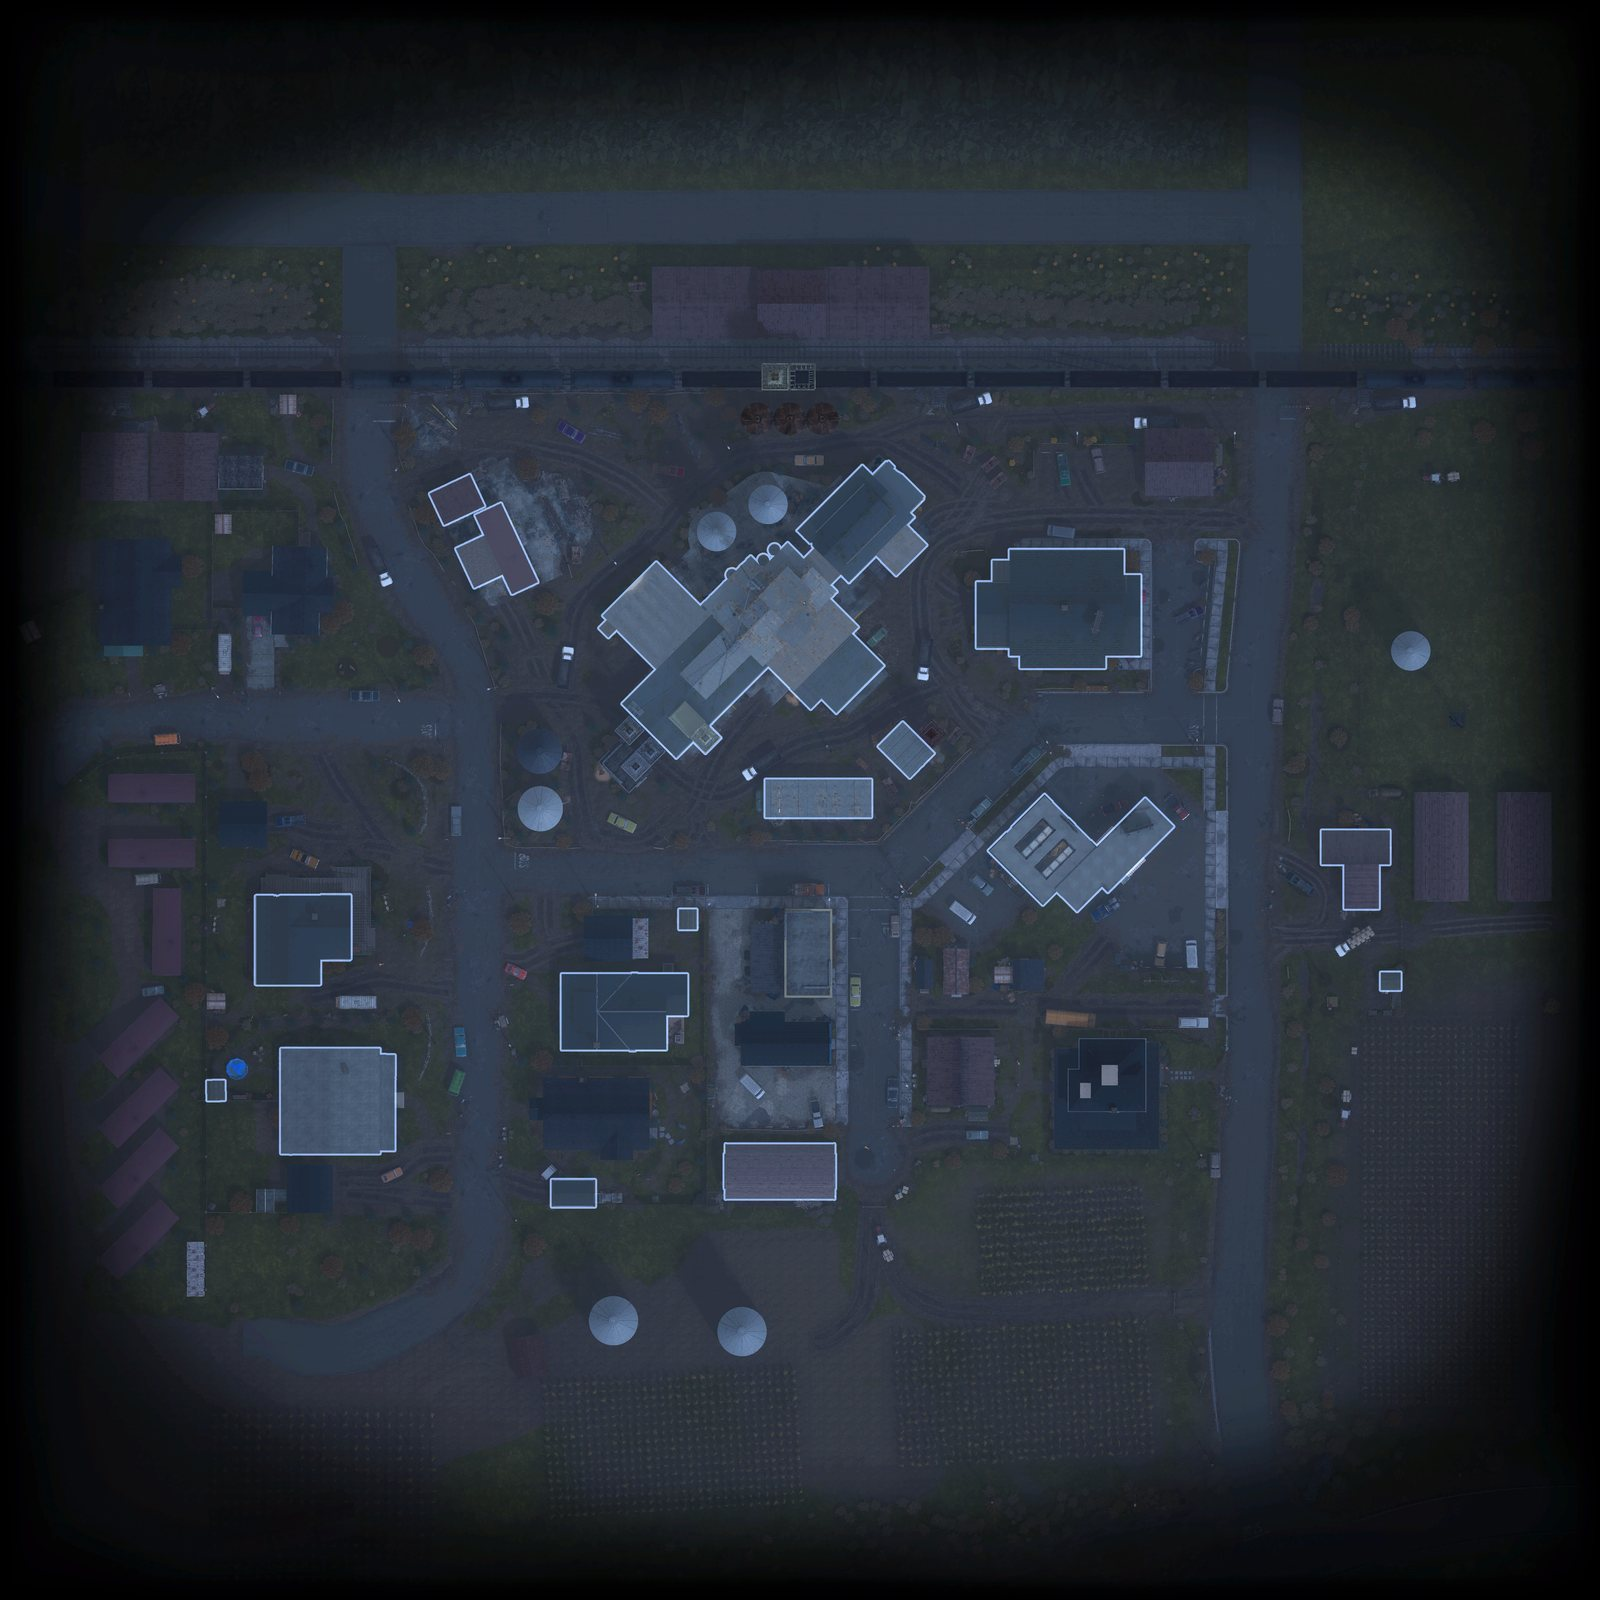
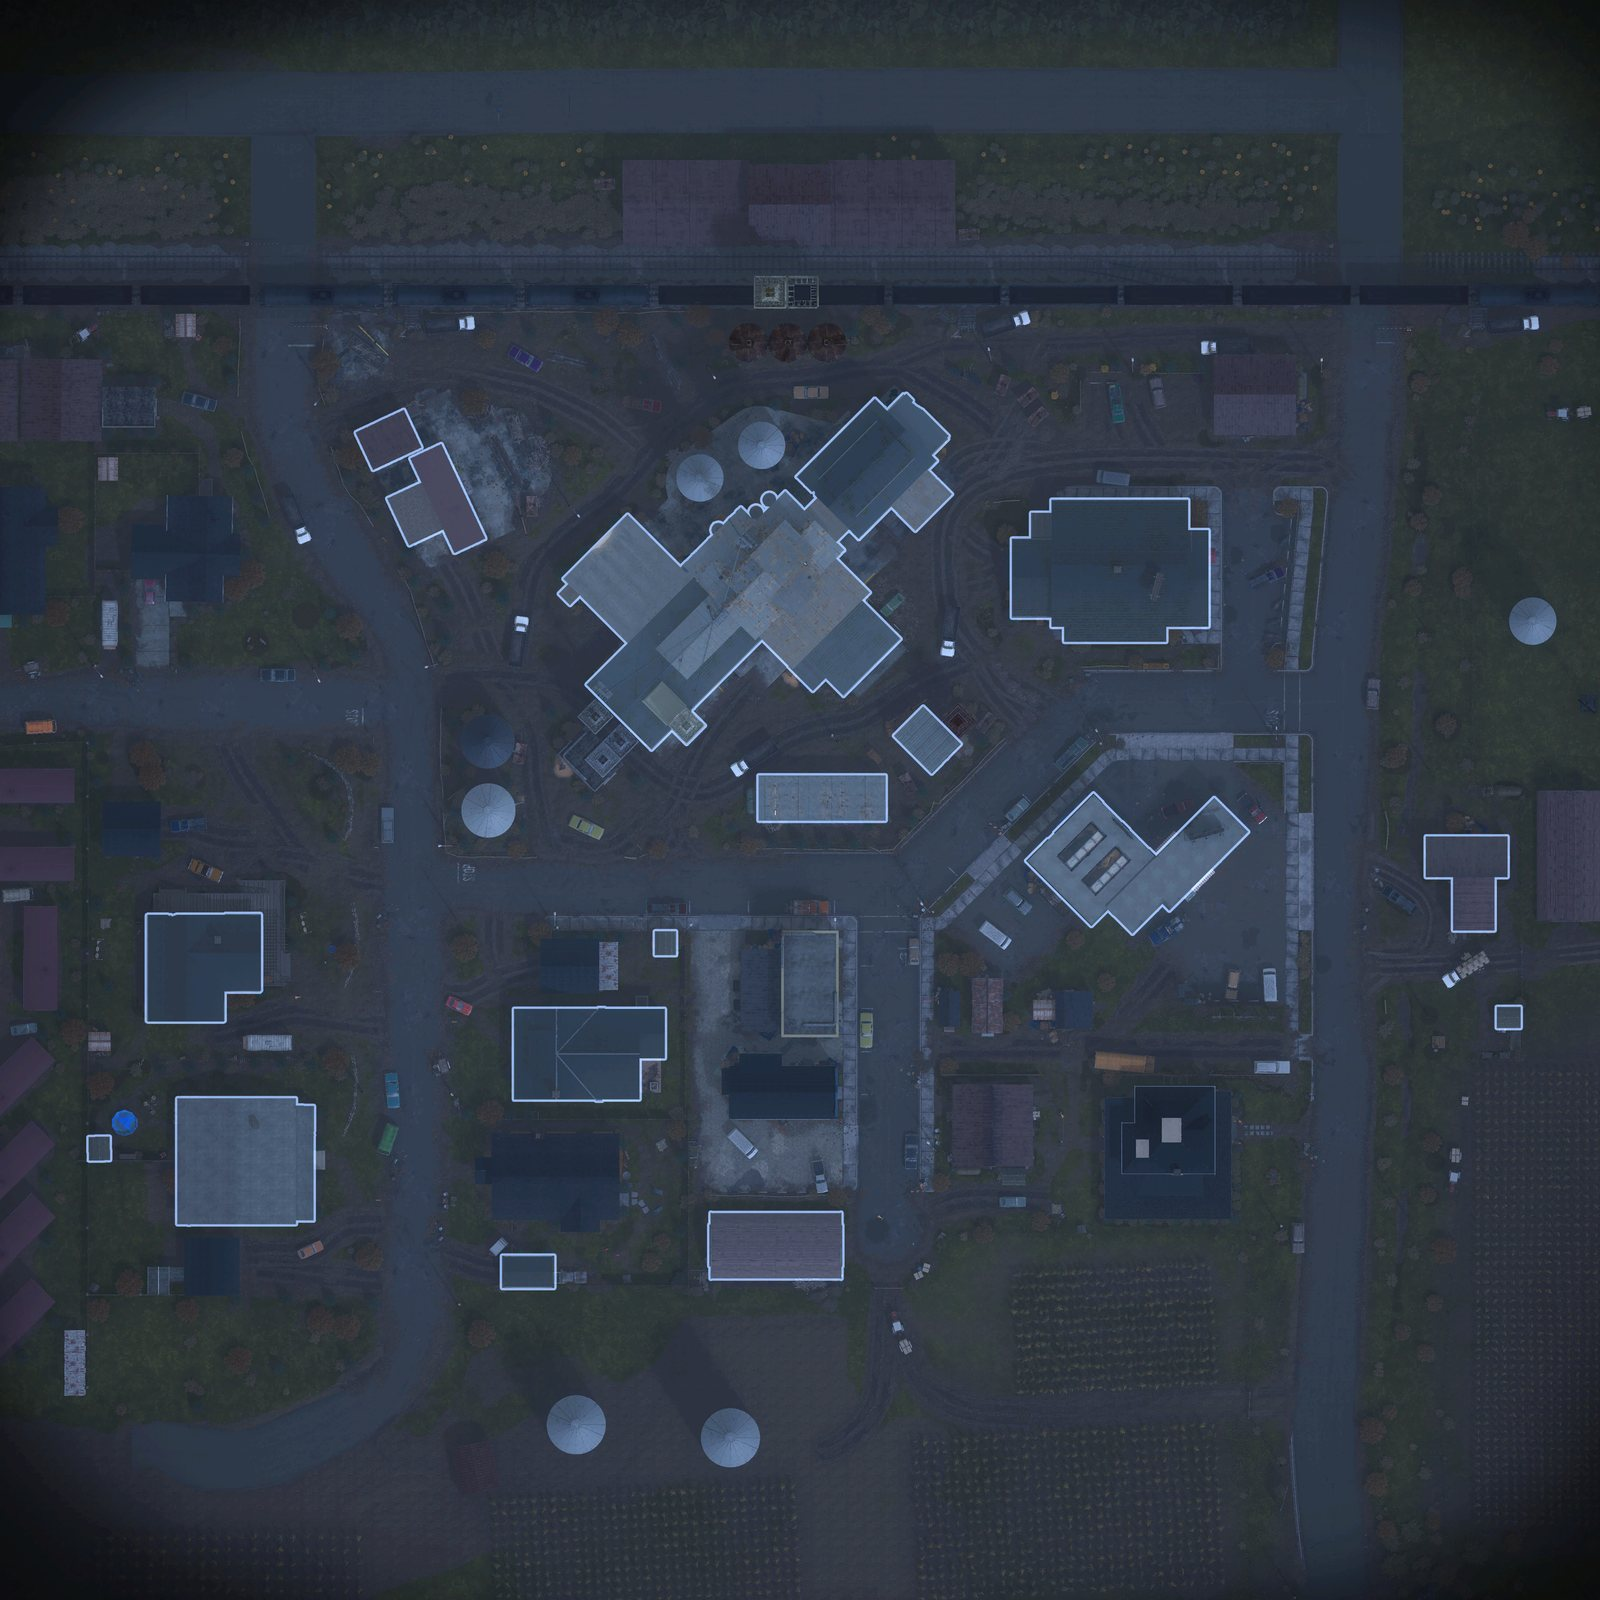
minor tweaks

diff --git a/maps.html b/maps.html
@@ -58,13 +58,24 @@ footer span:last-child{margin-left:auto}
 .bar button .li{width:20px;height:20px;opacity:.4}
 .bar button.on .li{opacity:1}
 .bar button .n{font-weight:400;color:var(--mute);letter-spacing:0}
-.mapwrap{width:942px;max-width:100%;border:1px solid var(--line);border-radius:12px;overflow:hidden;position:relative;background:#050506;line-height:0}
+.maprow{display:flex;gap:10px;align-items:flex-start;width:942px;max-width:100%}
+.side{flex:none;width:186px;display:flex;flex-direction:column;gap:6px;padding:10px;border:1px solid var(--line);border-radius:12px;background:var(--bg)}
+.side .lbl{font-stretch:condensed;font-size:11px;letter-spacing:.24em;text-transform:uppercase;color:var(--mute);padding:2px 4px 4px}
+.side button{font:inherit;font-stretch:condensed;font-weight:700;font-size:14px;letter-spacing:.1em;text-transform:uppercase;cursor:pointer;text-align:left;
+ color:var(--mute);background:var(--panel);border:1px solid var(--line);border-radius:8px;padding:8px 10px;display:flex;align-items:center;gap:8px;width:100%}
+.side button:hover{color:var(--bone)}
+.side button.on{color:var(--bone);border-color:var(--bone);background:#22222a}
+.side button .li{width:20px;height:20px;opacity:.4}.side button.on .li{opacity:1}
+.side button .sw{width:11px;height:11px;border-radius:50%;background:var(--c);opacity:.35}.side button.on .sw{opacity:1}
+.side button .n{font-weight:400;color:var(--mute);letter-spacing:0;margin-left:auto}
+@media(max-width:700px){.maprow{flex-direction:column}.side{width:auto;flex-direction:row;flex-wrap:wrap;align-self:stretch}.side button{width:auto}.side .lbl{width:100%}}
+.mapwrap{flex:1;min-width:0;border:1px solid var(--line);border-radius:12px;overflow:hidden;position:relative;background:#050506;line-height:0}
 .mapwrap img{width:100%;height:auto;display:block}
 .mapwrap svg{position:absolute;inset:0;width:100%;height:100%}
 .mk text{font:700 15px Bahnschrift,'Segoe UI',Arial,sans-serif;fill:#0b0b0d;text-anchor:middle;dominant-baseline:central}
 .empty-note{font-size:13px;color:var(--mute);padding:0 6px}
-</style></head><body><div class="stack"><nav><a href="executions.html">Execution Times</a><a href="match_points.html">Match Points</a><a href="maps.html" class="on">Maps</a></nav><div class="bar"><span class="lbl">Map</span><span id="maps" style="display:contents"></span></div><div class="bar"><span class="lbl">Layers</span><span id="layers" style="display:contents"></span></div><div class="mapwrap"><img id="mapimg" alt=""><svg id="overlay" viewBox="0 0 1000 1000" preserveAspectRatio="none"></svg></div></div><script>
-const DATA = {"maps":[{"id":"orange-grove-estates","name":"Orange Grove Estates","img":"img/map-orange-grove-estates.jpg","layers":{"car":[{"x":0.2484,"y":0.5996,"a":270},{"x":0.6429,"y":0.2378,"a":90},{"x":0.6914,"y":0.7466,"a":180}],"cellar":[{"x":0.6019,"y":0.174},{"x":0.3522,"y":0.8515},{"x":0.6531,"y":0.8181},{"x":0.8702,"y":0.5914}],"gate":[{"x":0.3716,"y":0.8987},{"x":0.8219,"y":0.1366},{"x":0.5213,"y":0.1105}]}},{"id":"haddonfield-town-center","name":"Haddonfield Town Center","img":"img/map-haddonfield-town-center.jpg","layers":{"car":[{"x":0.167,"y":0.4242,"a":90},{"x":0.3545,"y":0.6359,"a":90},{"x":0.7517,"y":0.5573,"a":180},{"x":0.6206,"y":0.5283,"a":180},{"x":0.3537,"y":0.2882,"a":90}],"cellar":[{"x":0.2295,"y":0.43},{"x":0.5499,"y":0.4702},{"x":0.6025,"y":0.7293}],"gate":[{"x":0.8352,"y":0.8696}]}},{"id":"east-haddonfield","name":"East Haddonfield","img":"img/map-east-haddonfield.jpg","layers":{"car":[{"x":0.7763,"y":0.3027,"a":90},{"x":0.2565,"y":0.3855,"a":50},{"x":0.5585,"y":0.609,"a":270},{"x":0.3858,"y":0.5564,"a":0},{"x":0.7708,"y":0.6083,"a":270}],"cellar":[{"x":0.8338,"y":0.5188},{"x":0.6207,"y":0.6549},{"x":0.4178,"y":0.6108},{"x":0.201,"y":0.5973},{"x":0.542,"y":0.2958},{"x":0.1902,"y":0.3431}],"gate":[{"x":0.1296,"y":0.6379}]}},{"id":"haddonfield-heights","name":"Haddonfield Heights","img":"img/map-haddonfield-heights.jpg","layers":{"car":[{"x":0.3673,"y":0.6444,"a":15},{"x":0.603,"y":0.3357,"a":90},{"x":0.7508,"y":0.5121,"a":270},{"x":0.2902,"y":0.3789,"a":90}],"cellar":[{"x":0.533,"y":0.2856},{"x":0.2238,"y":0.365},{"x":0.4719,"y":0.2522},{"x":0.8536,"y":0.3146},{"x":0.5787,"y":0.751},{"x":0.2554,"y":0.7916},{"x":0.8092,"y":0.5742},{"x":0.4726,"y":0.5672},{"x":0.3979,"y":0.2794}],"gate":[{"x":0.9199,"y":0.2508},{"x":0.5072,"y":0.1268},{"x":0.6479,"y":0.8037}]}}],"layers":[{"id":"car","name":"Michael's car","color":"#6fdc7a","kind":"icon","icon":"img/icon-michaels-car.png"},{"id":"cellar","name":"Cellar","color":"#ffb060","kind":"icon","icon":"img/icon-cellar.png"},{"id":"gate","name":"Gate","color":"#6fb7e8","kind":"icon","icon":"img/icon-gate.png"}]};
+</style></head><body><div class="stack"><nav><a href="executions.html">Execution Times</a><a href="match_points.html">Match Points</a><a href="maps.html" class="on">Maps</a></nav><div class="bar"><span class="lbl">Map</span><span id="maps" style="display:contents"></span></div><div class="maprow"><div class="mapwrap"><img id="mapimg" alt=""><svg id="overlay" viewBox="0 0 1000 1000" preserveAspectRatio="none"></svg></div><div class="side"><span class="lbl">Layers</span><span id="layers" style="display:contents"></span></div></div></div><script>
+const DATA = {"maps":[{"id":"orange-grove-estates","name":"Orange Grove Estates","img":"img/map-orange-grove-estates.jpg","layers":{"car":[{"x":0.1981,"y":0.6195,"a":270},{"x":0.6715,"y":0.1853,"a":90},{"x":0.7296,"y":0.796,"a":180}],"cellar":[{"x":0.6222,"y":0.1089},{"x":0.3227,"y":0.9218},{"x":0.6837,"y":0.8817},{"x":0.9442,"y":0.6097}],"gate":[{"x":0.3459,"y":0.9784},{"x":0.8863,"y":0.064},{"x":0.5256,"y":0.0326}],"pickaxe":[{"x":0.9251,"y":0.8705,"s":0.167,"n":6},{"x":0.6978,"y":0.9198,"s":0.167,"n":6},{"x":0.2626,"y":0.6392,"s":0.167,"n":6}],"pitchfork":[{"x":0.9251,"y":0.8705,"s":0.167,"n":6},{"x":0.6978,"y":0.9198,"s":0.167,"n":6},{"x":0.2626,"y":0.6392,"s":0.167,"n":6}],"woodaxe":[{"x":0.8551,"y":0.2818,"s":1.0,"n":1},{"x":0.9251,"y":0.8705,"s":0.167,"n":6},{"x":0.6978,"y":0.9198,"s":0.167,"n":6},{"x":0.2626,"y":0.6392,"s":0.167,"n":6},{"x":0.2127,"y":0.389,"p":1},{"x":0.8621,"y":0.7319,"p":1},{"x":0.5124,"y":0.1978,"p":1},{"x":0.1601,"y":0.618,"p":1},{"x":0.2138,"y":0.8406,"p":1}],"hatchet":[{"x":0.8925,"y":0.4193,"s":0.25,"n":4},{"x":0.9386,"y":0.8016,"s":0.25,"n":4},{"x":0.7006,"y":0.8557,"s":0.25,"n":4},{"x":0.3083,"y":0.9578,"s":0.25,"n":4},{"x":0.344,"y":0.6115,"s":0.25,"n":4},{"x":0.1894,"y":0.3859,"s":0.25,"n":4},{"x":0.326,"y":0.1496,"s":0.25,"n":4},{"x":0.5651,"y":0.0935,"s":0.25,"n":4},{"x":0.8088,"y":0.0994,"s":0.25,"n":4},{"x":0.904,"y":0.3137,"s":0.25,"n":4},{"x":0.141,"y":0.5804,"s":0.25,"n":4},{"x":0.5573,"y":0.371,"s":0.25,"n":4},{"x":0.8155,"y":0.2793,"s":0.25,"n":4},{"x":0.1809,"y":0.3952,"s":0.167,"n":5},{"x":0.3557,"y":0.656,"s":0.1,"n":8},{"x":0.4941,"y":0.6115,"s":0.125,"n":7},{"x":0.3934,"y":0.9709,"s":0.143,"n":7},{"x":0.8549,"y":0.1075,"s":0.143,"n":7}],"cbradio":[{"x":0.813,"y":0.1365},{"x":0.6971,"y":0.5447},{"x":0.7321,"y":0.5426},{"x":0.6893,"y":0.6596},{"x":0.3642,"y":0.2227}]}},{"id":"haddonfield-town-center","name":"Haddonfield Town Center","img":"img/map-haddonfield-town-center.jpg","layers":{"car":[{"x":0.1004,"y":0.4091,"a":90},{"x":0.3254,"y":0.6631,"a":90},{"x":0.802,"y":0.5688,"a":180},{"x":0.6448,"y":0.5339,"a":180},{"x":0.3244,"y":0.2459,"a":90}],"cellar":[{"x":0.1754,"y":0.416},{"x":0.5599,"y":0.4642},{"x":0.623,"y":0.7751}],"gate":[{"x":0.9022,"y":0.9435}],"pickaxe":[{"x":0.6813,"y":0.3155,"s":1.0,"n":1},{"x":0.4154,"y":0.6476,"s":1.0,"n":1},{"x":0.3594,"y":0.3685,"s":1.0,"n":1},{"x":0.6524,"y":0.302,"s":1.0,"n":1}],"pitchfork":[{"x":0.4205,"y":0.6476,"s":1.0,"n":1},{"x":0.8512,"y":0.7929,"s":1.0,"n":1}],"woodaxe":[{"x":0.2801,"y":0.7772,"s":0.2,"n":5}],"hatchet":[{"x":0.2801,"y":0.7772,"s":0.2,"n":5},{"x":0.6293,"y":0.4109,"s":0.125,"n":8},{"x":0.7387,"y":0.3535,"p":1}],"cbradio":[{"x":0.5918,"y":0.4021},{"x":0.399,"y":0.607},{"x":0.1321,"y":0.6113},{"x":0.1935,"y":0.4217},{"x":0.247,"y":0.3298},{"x":0.4414,"y":0.2103}]}},{"id":"east-haddonfield","name":"East Haddonfield","img":"img/map-east-haddonfield.jpg","layers":{"car":[{"x":0.8316,"y":0.2633,"a":90},{"x":0.2078,"y":0.3625,"a":50},{"x":0.5702,"y":0.6308,"a":270},{"x":0.3629,"y":0.5677,"a":0},{"x":0.8249,"y":0.6299,"a":270}],"cellar":[{"x":0.9006,"y":0.5226},{"x":0.6448,"y":0.6859},{"x":0.4013,"y":0.633},{"x":0.1412,"y":0.6168},{"x":0.5504,"y":0.255},{"x":0.1283,"y":0.3117}],"gate":[{"x":0.0555,"y":0.6655}],"pickaxe":[{"x":0.5357,"y":0.3707,"s":0.5,"n":3},{"x":0.8814,"y":0.5523,"s":0.5,"n":3},{"x":0.318,"y":0.7919,"s":0.5,"n":3},{"x":0.2735,"y":0.3251,"s":0.059,"n":12},{"x":0.238,"y":0.2133,"s":0.059,"n":12},{"x":0.5058,"y":0.3209,"s":0.059,"n":12},{"x":0.8971,"y":0.3173,"s":0.059,"n":12},{"x":0.8863,"y":0.4689,"s":0.059,"n":12},{"x":0.8778,"y":0.6252,"s":0.059,"n":12},{"x":0.4976,"y":0.6595,"s":0.059,"n":12},{"x":0.1332,"y":0.7426,"s":0.062,"n":11},{"x":0.105,"y":0.2589,"s":0.059,"n":12},{"x":0.3349,"y":0.2946,"s":0.059,"n":12},{"x":0.6302,"y":0.3708,"s":0.167,"n":6},{"x":0.2555,"y":0.2111,"s":1.0,"n":1}],"pitchfork":[{"x":0.1912,"y":0.7633,"s":1.0,"n":1},{"x":0.5166,"y":0.7915,"s":1.0,"n":1},{"x":0.3202,"y":0.4966,"s":1.0,"n":1},{"x":0.5905,"y":0.4672,"s":1.0,"n":1},{"x":0.2735,"y":0.3251,"s":0.059,"n":12},{"x":0.238,"y":0.2133,"s":0.059,"n":12},{"x":0.5058,"y":0.3209,"s":0.059,"n":12},{"x":0.8971,"y":0.3173,"s":0.059,"n":12},{"x":0.8863,"y":0.4689,"s":0.059,"n":12},{"x":0.8778,"y":0.6252,"s":0.059,"n":12},{"x":0.4976,"y":0.6595,"s":0.059,"n":12},{"x":0.105,"y":0.2589,"s":0.059,"n":12},{"x":0.4802,"y":0.3895,"s":1.0,"n":1},{"x":0.9338,"y":0.5798,"s":1.0,"n":1},{"x":0.762,"y":0.6378,"s":1.0,"n":1},{"x":0.3349,"y":0.2946,"s":0.059,"n":12},{"x":0.6302,"y":0.3708,"s":0.167,"n":6},{"x":0.1196,"y":0.211,"s":1.0,"n":1},{"x":0.4893,"y":0.3872,"p":1}],"woodaxe":[{"x":0.4228,"y":0.4479,"s":0.5,"n":2},{"x":0.6499,"y":0.6417,"s":0.5,"n":2},{"x":0.1046,"y":0.3723,"s":0.5,"n":2},{"x":0.465,"y":0.4019,"s":0.1,"n":10},{"x":0.2735,"y":0.3251,"s":0.059,"n":12},{"x":0.238,"y":0.2133,"s":0.059,"n":12},{"x":0.5058,"y":0.3209,"s":0.059,"n":12},{"x":0.8971,"y":0.3173,"s":0.059,"n":12},{"x":0.8863,"y":0.4689,"s":0.059,"n":12},{"x":0.8778,"y":0.6252,"s":0.059,"n":12},{"x":0.4976,"y":0.6595,"s":0.059,"n":12},{"x":0.1332,"y":0.7426,"s":0.062,"n":11},{"x":0.105,"y":0.2589,"s":0.059,"n":12},{"x":0.6021,"y":0.4409,"s":0.1,"n":10},{"x":0.3349,"y":0.2946,"s":0.059,"n":12},{"x":0.6302,"y":0.3708,"s":0.167,"n":6},{"x":0.5656,"y":0.2688,"s":0.5,"n":2},{"x":0.4961,"y":0.2779,"s":1.0,"n":1},{"x":0.6532,"y":0.1993,"s":0.5,"n":2},{"x":0.2572,"y":0.2739,"p":1}],"hatchet":[{"x":0.2669,"y":0.3157,"s":0.25,"n":4},{"x":0.5865,"y":0.7116,"s":0.25,"n":4},{"x":0.3239,"y":0.7888,"s":0.25,"n":4},{"x":0.465,"y":0.4019,"s":0.1,"n":10},{"x":0.2735,"y":0.3251,"s":0.059,"n":12},{"x":0.238,"y":0.2133,"s":0.059,"n":12},{"x":0.5058,"y":0.3209,"s":0.059,"n":12},{"x":0.8971,"y":0.3173,"s":0.059,"n":12},{"x":0.8863,"y":0.4689,"s":0.059,"n":12},{"x":0.8778,"y":0.6252,"s":0.059,"n":12},{"x":0.4976,"y":0.6595,"s":0.059,"n":12},{"x":0.1332,"y":0.7426,"s":0.062,"n":11},{"x":0.105,"y":0.2589,"s":0.059,"n":12},{"x":0.6021,"y":0.4409,"s":0.1,"n":10},{"x":0.3349,"y":0.2946,"s":0.059,"n":12},{"x":0.6963,"y":0.6906,"s":0.25,"n":4},{"x":0.5187,"y":0.3886,"s":0.25,"n":4},{"x":0.253,"y":0.2641,"s":0.25,"n":4},{"x":0.6532,"y":0.1993,"s":0.5,"n":2}],"cbradio":[{"x":0.3912,"y":0.3323},{"x":0.7042,"y":0.3851},{"x":0.6491,"y":0.5382},{"x":0.4853,"y":0.5075},{"x":0.3426,"y":0.6367},{"x":0.1276,"y":0.5844}]}},{"id":"haddonfield-heights","name":"Haddonfield Heights","img":"img/map-haddonfield-heights.jpg","layers":{"car":[{"x":0.3408,"y":0.6733,"a":15},{"x":0.6236,"y":0.3029,"a":90},{"x":0.801,"y":0.5146,"a":270},{"x":0.2483,"y":0.3547,"a":90}],"cellar":[{"x":0.5396,"y":0.2428},{"x":0.1686,"y":0.338},{"x":0.4663,"y":0.2027},{"x":0.9243,"y":0.2775},{"x":0.5945,"y":0.8012},{"x":0.2065,"y":0.8499},{"x":0.8711,"y":0.589},{"x":0.4672,"y":0.5807},{"x":0.3774,"y":0.2353}],"gate":[{"x":0.98,"y":0.201},{"x":0.5087,"y":0.0522},{"x":0.6775,"y":0.8644}],"pickaxe":[{"x":0.2118,"y":0.3053,"s":0.2,"n":5},{"x":0.6058,"y":0.3152,"s":0.2,"n":5},{"x":0.5674,"y":0.2385,"s":0.222,"n":6},{"x":0.6416,"y":0.6264,"s":0.059,"n":12},{"x":0.2562,"y":0.7457,"s":0.333,"n":7},{"x":0.6906,"y":0.8185,"s":0.083,"n":12},{"x":0.5519,"y":0.7572,"s":0.2,"n":5},{"x":0.5184,"y":0.5987,"s":0.5,"n":3},{"x":0.6991,"y":0.624,"s":1.0,"n":1}],"pitchfork":[{"x":0.2118,"y":0.3053,"s":0.2,"n":5},{"x":0.6058,"y":0.3152,"s":0.2,"n":5},{"x":0.8952,"y":0.4816,"s":1.0,"n":1},{"x":0.5674,"y":0.2385,"s":0.222,"n":6},{"x":0.6416,"y":0.6264,"s":0.059,"n":12},{"x":0.6906,"y":0.8185,"s":0.083,"n":12},{"x":0.5519,"y":0.7572,"s":0.2,"n":5},{"x":0.4278,"y":0.6165,"s":1.0,"n":1},{"x":0.3004,"y":0.7709,"s":1.0,"n":1}],"woodaxe":[{"x":0.2118,"y":0.3053,"s":0.2,"n":5},{"x":0.6058,"y":0.3152,"s":0.2,"n":5},{"x":0.5674,"y":0.2385,"s":0.111,"n":6},{"x":0.6416,"y":0.6264,"s":0.059,"n":12},{"x":0.6906,"y":0.8185,"s":0.083,"n":12},{"x":0.5519,"y":0.7572,"s":0.2,"n":5},{"x":0.4712,"y":0.7777,"s":0.1,"n":10},{"x":0.3556,"y":0.1816,"s":0.1,"n":10},{"x":0.587,"y":0.496,"s":0.5,"n":3},{"x":0.2111,"y":0.406,"s":1.0,"n":1},{"x":0.4346,"y":0.6328,"p":1},{"x":0.8471,"y":0.379,"p":1},{"x":0.0995,"y":0.4098,"p":1},{"x":0.2335,"y":0.2964,"p":1},{"x":0.2839,"y":0.8132,"p":1}],"hatchet":[{"x":0.5674,"y":0.2385,"s":0.111,"n":6},{"x":0.4161,"y":0.6042,"s":0.167,"n":6},{"x":0.6416,"y":0.6264,"s":0.059,"n":12},{"x":0.6906,"y":0.8185,"s":0.083,"n":12},{"x":0.4712,"y":0.7777,"s":0.1,"n":10},{"x":0.3556,"y":0.1816,"s":0.1,"n":10},{"x":0.0578,"y":0.5174,"s":0.667,"n":2}],"cbradio":[{"x":0.7029,"y":0.2905},{"x":0.3642,"y":0.5334},{"x":0.6795,"y":0.5575},{"x":0.9111,"y":0.5625},{"x":0.4698,"y":0.1383}]}}],"layers":[{"id":"car","name":"Michael's car","color":"#6fdc7a","kind":"icon","icon":"img/icon-michaels-car.png"},{"id":"cellar","name":"Cellar","color":"#ffb060","kind":"icon","icon":"img/icon-cellar.png"},{"id":"gate","name":"Gate","color":"#6fb7e8","kind":"icon","icon":"img/icon-gate.png"},{"id":"pickaxe","name":"Pickaxe","color":"#e8d44d","kind":"icon","icon":"img/weapon-pickaxe.png"},{"id":"pitchfork","name":"Pitchfork","color":"#c79bf2","kind":"icon","icon":"img/weapon-pitchfork.png"},{"id":"woodaxe","name":"Wood Axe","color":"#f08a5d","kind":"icon","icon":"img/weapon-wood-axe.png"},{"id":"hatchet","name":"Hatchet","color":"#5fd0c5","kind":"icon","icon":"img/weapon-hatchet.png"},{"id":"cbradio","name":"CB Radio","color":"#f277a8","kind":"icon","icon":"img/icon-cb-radio.png"}]};
 const state = {map: 0, on: {}};
 DATA.layers.forEach(l => state.on[l.id] = true);
 (function readHash(){
@@ -80,7 +91,8 @@ function marker(l, p, i){
   const x = p.x * 1000, y = p.y * 1000;
   if (l.kind === 'icon') {
     const has = p.a !== undefined, r = (has ? p.a : 45) * Math.PI / 180, c = Math.cos(r), sn = Math.sin(r);
-    return `<g class="mk" transform="translate(${x} ${y})">
+    const tip = p.p ? `<title>${l.name} placed here in the level</title>` : p.s === undefined ? '' : `<title>${p.s >= 1 ? 'Only ' + l.name + ' can appear here' : l.name + ': ' + Math.round(p.s * 100) + '% of the item list here (' + p.n + ' items)'}</title>`;
+    return `<g class="mk" transform="translate(${x} ${y})"${p.s !== undefined && p.s < 1 ? ' opacity="' + (0.5 + 0.5 * p.s).toFixed(2) + '"' : ''}>${tip}
       ${has ? `<g transform="rotate(${p.a})"><path d="M23 -8 L37 0 L23 8 Z" fill="${l.color}" stroke="#0b0b0d" stroke-width="1.5" stroke-linejoin="round"/></g>` : ''}
       <circle r="21" fill="#15151a" stroke="${l.color}" stroke-width="2.5"/>
       <image href="${l.icon}" x="-21" y="-21" width="42" height="42"/></g>`;
